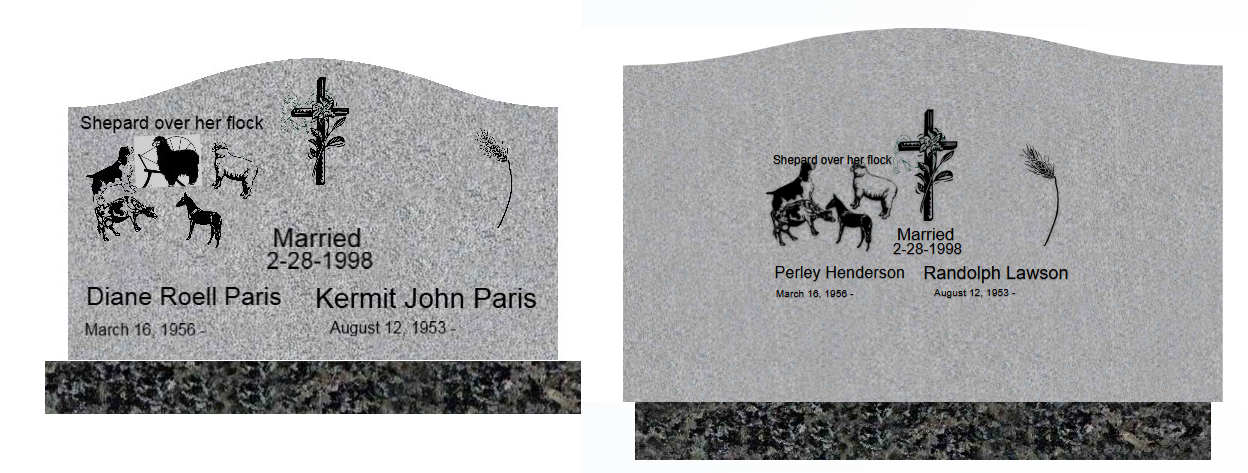
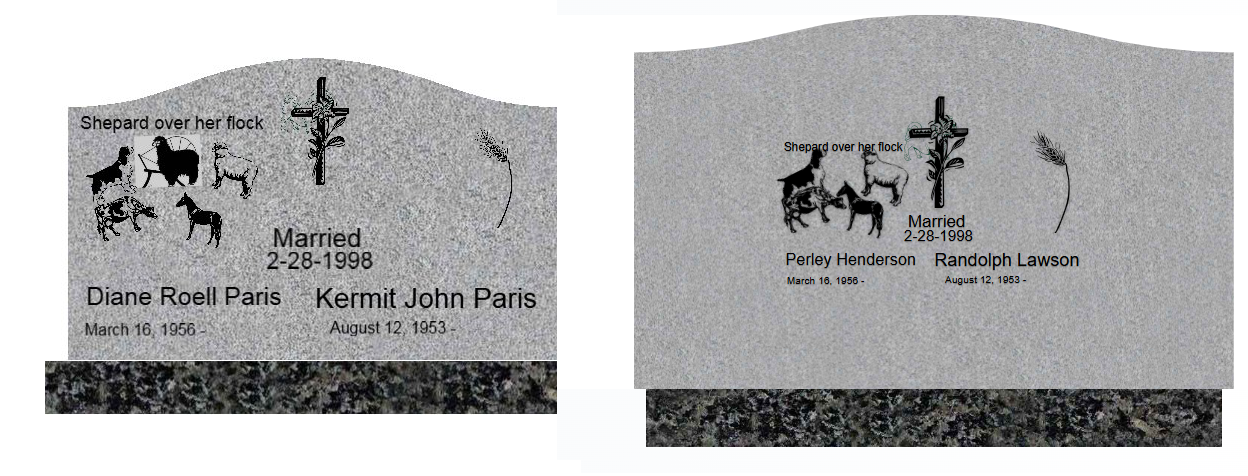
fix: use inverse ratio to convert headstone space to canvas space
The coordinates ARE in headstone physical space (1066.8×660.4), not canvas
space (930×580). We need to MULTIPLY by the INVERSE ratio to convert:

  canvasToHeadstoneRatio = initW / headstoneWidth = 930 / 1066.8 = 0.872

  x_canvas = x_headstone * 0.872

This SHRINKS coordinates (moves them AWAY from edges toward center):
- Text y=-85 → y=-74 (moves UP toward center)
- Sheep y=-39 → y=-34 (moves UP toward center)
- But preserves relative gap

Applied to both inscriptions and motifs.

This should fix the vertical spacing - 'Shepard over her flock' text
should no longer touch the sheep motifs.

diff --git a/app/designs/[productType]/[category]/[slug]/DesignPageClient.tsx b/app/designs/[productType]/[category]/[slug]/DesignPageClient.tsx
@@ -2910,8 +2910,13 @@ export default function DesignPageClient({
                       }
                       
                       // Convert from center-anchored to display position
-                      const dispX = offsetX + (canvasX + initW / 2) * uniformScale;
-                      const dispY = offsetY + (canvasY + initH / 2) * uniformScale;
+                      // Coordinates are in headstone physical space, convert to canvas space
+                      const headstoneItem = sanitizedDesignData?.find((it: any) => it.type === 'Headstone');
+                      const canvasToHeadstoneRatio = initW / (headstoneItem?.width || initW);
+                      const canvasX_scaled = canvasX * canvasToHeadstoneRatio;
+                      const canvasY_scaled = canvasY * canvasToHeadstoneRatio;
+                      const dispX = offsetX + (canvasX_scaled + initW / 2) * uniformScale;
+                      const dispY = offsetY + (canvasY_scaled + initH / 2) * uniformScale;
 
                       const fontFamily = item.font_family || item.font || 'serif';
 
@@ -3038,9 +3043,14 @@ export default function DesignPageClient({
                         }
                       }
                       
-                      // Map from center-origin canvas to overlay pixels (same as inscriptions)
-                      const left = offsetX + (cx + initW / 2) * sx;
-                      const top = offsetY + (cyUsed + initH / 2) * sy;
+                      // Map from center-origin canvas to overlay pixels
+                      // Coordinates are in headstone physical space, convert to canvas space
+                      const headstoneItem = sanitizedDesignData?.find((it: any) => it.type === 'Headstone');
+                      const canvasToHeadstoneRatio = initW / (headstoneItem?.width || initW);
+                      const cx_scaled = cx * canvasToHeadstoneRatio;
+                      const cy_scaled = cyUsed * canvasToHeadstoneRatio;
+                      const left = offsetX + (cx_scaled + initW / 2) * sx;
+                      const top = offsetY + (cy_scaled + initH / 2) * sy;
                       
                       // Debug log - now show ALL motifs, not just first 3
                       const motifHAuthorDebug = (heightPx * initH) / overlayH;
